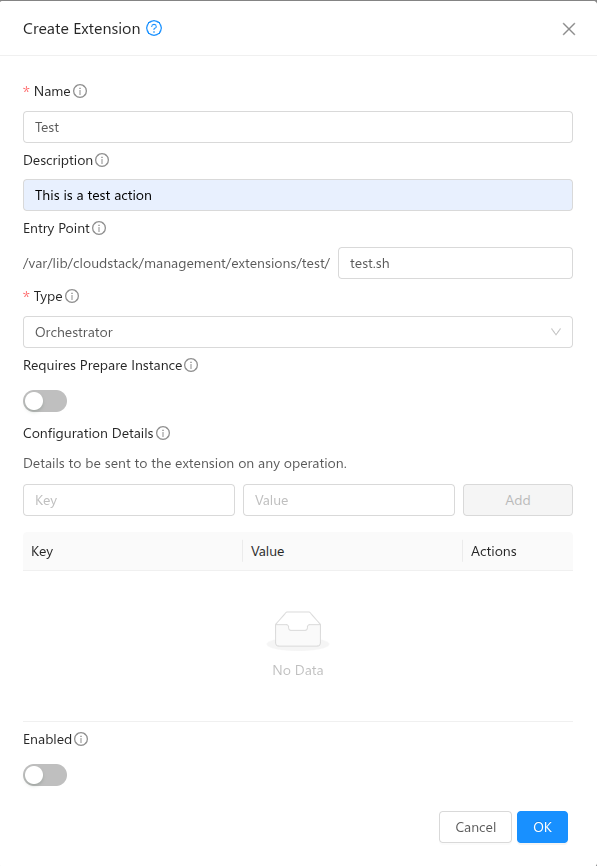
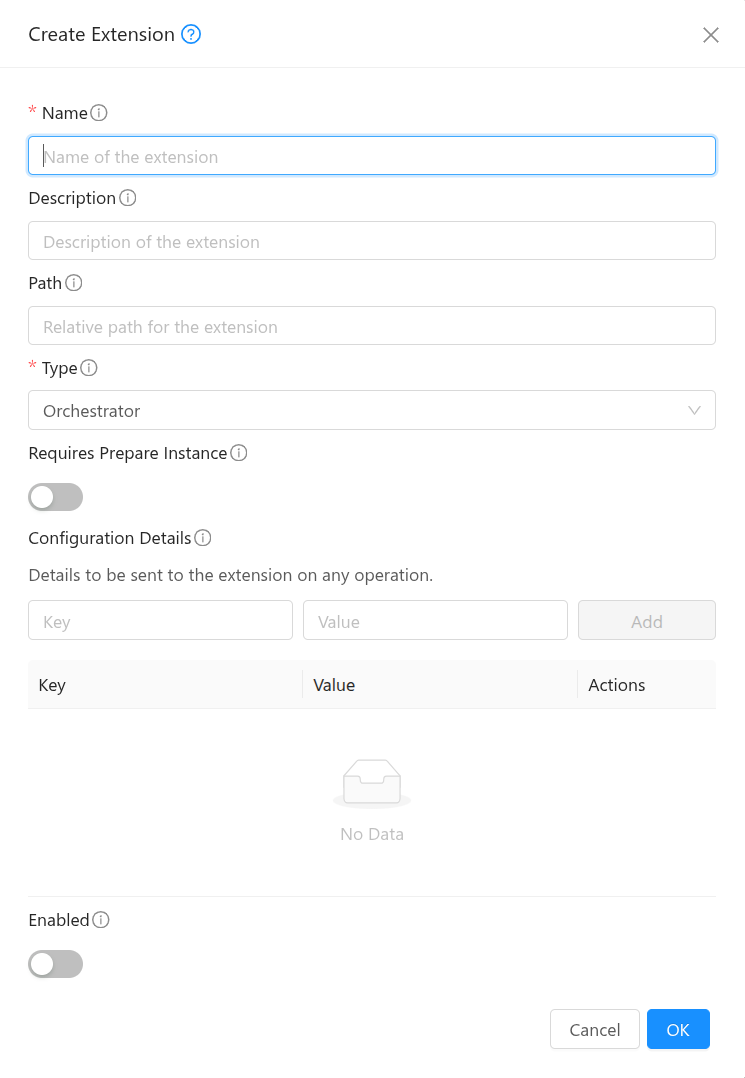
update images

diff --git a/source/adminguide/extensions.rst b/source/adminguide/extensions.rst
@@ -73,7 +73,7 @@ An Orchestrator extension enables CloudStack to delegate VM orchestration to an 
    - Instance Preparation: Orchestrator extensions can optionally perform a preparation step during instance deployment. This step is executed before the instance is started on the external system. It allows the extension to update certain instance details in CloudStack. CloudStack sends a structured JSON containing the instance configuration, and the extension can respond with the values it wishes to modify. Currently, only a limited set of fields can be updated: the instance’s VNC password, MAC address, and the IPv4/IPv6 addresses of its NICs.
 
 
-   |run-custom-action.png|
+   |extension.png|
 
 
 CloudStack provides sample built-in orchestrator extensions for demonstration and testing purposes.
@@ -87,3 +87,4 @@ CloudStack provides sample built-in orchestrator extensions for demonstration an
 
 .. |extensions.png| image:: /_static/images/extensions.png
 .. |create-extension.png| image:: /_static/images/create-extension.png
+.. |extension.png| image:: /_static/images/extension.png

diff --git a/source/adminguide/extensions/custom_actions.rst b/source/adminguide/extensions/custom_actions.rst
@@ -49,6 +49,8 @@ Running Custom Action
 
 All enabled custom actions can then be triggered for a resource of the type the action is defined for or provided while running, using the **Run Action** view or runCustomAction API.
 
+   |run-custom-action-instance.png|
+
    |run-custom-action.png|
 
 
@@ -56,5 +58,5 @@ All enabled custom actions can then be triggered for a resource of the type the 
 
 
 .. |add-custom-action.png| image:: /_static/images/add-custom-action.png
-.. |run-custom-action.png| image:: /_static/images/run-custom-action.png
 .. |run-custom-action-instance.png| image:: /_static/images/run-custom-action-instance.png
+.. |run-custom-action.png| image:: /_static/images/run-custom-action.png
